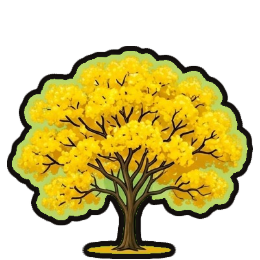
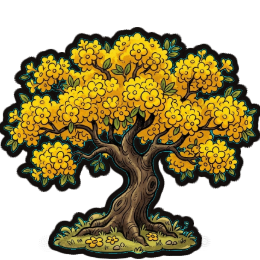
Guayacan y casa nuevos, y el decorado de Medellin sin opacidad
El guayacan que dibujo Daniel reemplaza al que salia de la hoja de
adornos, y sale ademas DETRAS, de decorado, junto con la chiva y una casa
de pueblo nueva con su bandera. Cada uno con su paso y su desfase, para
que no salgan a la vez ni en el mismo orden.

La chiva baja al 75% (285 y 225) y el gato sube al 110% (136). El plano de
detras pasa a ir opaco: como no tapa a nadie, la opacidad solo lo dejaba
desvaido contra la ilustracion de la ciudad.

Y una del recorte: quitaba el fondo entrando desde los bordes, asi que las
bolsas encerradas dentro del dibujo (entre las hojas de las palmeras,
detras de la baranda del balcon, bajo el alero del porche) se salvaban y
quedaban de turquesa en mitad de la casa. Se limpian barriendo la lamina
por color, pero solo donde se puede pedir: en la hoja de adornos las hojas
de las palmeras son del mismo verde que el fondo y se las comeria.

diff --git a/src/config/ciudades.js b/src/config/ciudades.js
@@ -53,19 +53,26 @@ export const CIUDADES = {
     // la ciudad de la hinchada verde, los frijoles y los guayacanes en flor
     frente: [
       { textura: TEXTURAS.frenteGuayacan, desde: 'abajo', alto: 148, cada: 940, desfase: 300 },
-      // La chiva va DETRAS del nino y del suelo, y bien grande: es el decorado
-      // de la ciudad, no un adorno que le pase por delante. Va dos veces, a
-      // distinto tamano y a distinto paso, para que se lea como dos chivas a
-      // distinta distancia y no como la misma calcada.
-      { textura: TEXTURAS.frenteChiva, desde: 'abajo', alto: 380, cada: 1240, desfase: 760, detras: true },
       { textura: TEXTURAS.frentePalmeraAlta, desde: 'abajo', alto: 210, cada: 1060, desfase: 1180 },
-      { textura: TEXTURAS.frenteChiva, desde: 'abajo', alto: 300, cada: 1320, desfase: 1600, detras: true },
       { textura: TEXTURAS.frenteFrijoles, desde: 'abajo', alto: 96, cada: 1140, desfase: 480 },
       // El gato de la hinchada, llorando porque Martain le mocho la cola. Va
       // con su bocadillo, que es el chiste, asi que sigue siendo el mas alto de
-      // los adornos de suelo; aun asi se le bajo al 65% para que no tape a las
-      // baneras cuando se cruzan.
-      { textura: TEXTURAS.frenteGato, desde: 'abajo', alto: 124, cada: 1460, desfase: 900 },
+      // los adornos de suelo.
+      { textura: TEXTURAS.frenteGato, desde: 'abajo', alto: 136, cada: 1460, desfase: 900 },
+
+      // --- el decorado de la ciudad, DETRAS del nino y del suelo ------------
+      //
+      // Estos no cruzan por delante de nadie: son Medellin de fondo. La chiva
+      // va dos veces, a distinto tamano, para que se lea como dos chivas a
+      // distinta distancia y no como la misma calcada; el guayacan sale aqui
+      // ademas de delante, y la casa se reparte entre medias. Cada uno con su
+      // paso y su desfase, para que no salgan a la vez ni en el mismo orden.
+      //
+      // Y sin opacidad: no tapan nada, asi que no hay nada que despejar.
+      { textura: TEXTURAS.frenteChiva, desde: 'abajo', alto: 285, cada: 1240, desfase: 760, detras: true },
+      { textura: TEXTURAS.frenteChiva, desde: 'abajo', alto: 225, cada: 1320, desfase: 1600, detras: true },
+      { textura: TEXTURAS.frenteGuayacan, desde: 'abajo', alto: 246, cada: 1180, desfase: 340, detras: true },
+      { textura: TEXTURAS.frenteCasa, desde: 'abajo', alto: 356, cada: 1460, desfase: 1120, detras: true },
     ],
     pavimento: { patron: 'baldosa', claro: 0xcfc4b0, medio: 0xb5a893, oscuro: 0x8d8070 },
     subsuelo: { patron: 'adoquin', claro: 0xa85f45, medio: 0x8e4d37, oscuro: 0x6b3828 },

diff --git a/src/escenas/EscenaCarga.js b/src/escenas/EscenaCarga.js
@@ -31,6 +31,7 @@ import frenteFrijoles from '../assets/frente/frijoles.png';
 import frentePalmeraAlta from '../assets/frente/palmera-alta.png';
 import frenteGuayacan from '../assets/frente/guayacan.png';
 import frenteGato from '../assets/frente/gato.png';
+import frenteCasa from '../assets/frente/casa.png';
 import portadaMenu from '../assets/portada-menu.jpg';
 import fondoSpaceCoast from '../assets/fondos/space-coast.jpg';
 import fondoMedellin from '../assets/fondos/medellin.jpg';
@@ -110,6 +111,7 @@ export class EscenaCarga extends Phaser.Scene {
     this.load.image(TEXTURAS.frentePalmeraAlta, frentePalmeraAlta);
     this.load.image(TEXTURAS.frenteGuayacan, frenteGuayacan);
     this.load.image(TEXTURAS.frenteGato, frenteGato);
+    this.load.image(TEXTURAS.frenteCasa, frenteCasa);
     this.load.image(TEXTURAS.portadaMenu, portadaMenu);
     Object.entries(FONDOS_CIUDAD).forEach(([ciudad, url]) => {
       this.load.image(TEXTURAS.fondoDe(ciudad), url);

diff --git a/src/sistemas/planos.js b/src/sistemas/planos.js
@@ -139,7 +139,10 @@ export function montarPrimerPlano(escena, ancho, alto, anchoMundo, adornos, plan
         .image(donde, arriba ? -6 : alto + 6, adorno.textura)
         .setOrigin(0.5, arriba ? 0 : 1)
         .setScale(escala)
-        .setAlpha(adorno.alpha ?? PLANOS.frente.alpha)
+        // Los de delante van un poco translucidos, que cruzan por encima del
+        // nino; los de DETRAS no: no tapan nada, y bajarles la opacidad solo
+        // los dejaba desvaidos contra la ilustracion de la ciudad.
+        .setAlpha(adorno.alpha ?? (adorno.detras ? PLANOS.detras.alpha : PLANOS.frente.alpha))
         .setDepth(adorno.detras ? PLANOS.detras.profundidad : PLANOS.frente.profundidad);
       // Un adorno puede ir DETRAS del mundo en vez de delante: pasa por detras
       // del nino y del suelo, y se mueve mas despacio que la camara porque

diff --git a/src/config/estilo.js b/src/config/estilo.js
@@ -238,6 +238,7 @@ export const TEXTURAS = {
   frenteFrijoles: 'tex-frente-frijoles',
   frentePalmeraAlta: 'tex-frente-palmera-alta',
   frenteGuayacan: 'tex-frente-guayacan',
+  frenteCasa: 'tex-frente-casa',
   frenteGato: 'tex-frente-gato',
 
   frenteRama: 'tex-frente-rama',
@@ -290,6 +291,9 @@ export const PLANOS = {
   // DETRAS DEL MUNDO: decorado grande que pasa por detras del nino y del
   // suelo. Mas lejos que el mundo, mas cerca que la ilustracion de fondo.
   detras: {
+    // Sin transparencia: va por DETRAS del nino y del suelo, asi que no hay
+    // nada que despejar. Bajarle la opacidad solo lo dejaba desvaido.
+    alpha: 1,
     velocidad: 0.72,
     profundidad: -20,
   },

diff --git a/CLAUDE.md b/CLAUDE.md
@@ -598,10 +598,10 @@ mano, en `Planos`: `setScrollFactor` no se lleva con el zoom de la camara.
 - **El plano de delante es de cada ciudad.** Su lista va en `frente`, dentro de
   `src/config/ciudades.js`. Space Coast tiene palmeras, un vecino de otro
   planeta dandose un bano y un astronauta flotando arriba; Medellin, guayacanes
-  en flor, la chiva de la hinchada camino del estadio, una palmera alta, una
-  olla de frijoles y el
-  gato de la hinchada, que va llorando porque Martain le mocho la cola. Las tres
-  que faltan siguen con los adornos provisionales (ramas, farol, matorral), que
+  en flor, una palmera alta, una olla de frijoles y el gato de la hinchada, que
+  va llorando porque Martain le mocho la cola; y DETRAS, de decorado, la chiva
+  camino del estadio, mas guayacanes y una casa de pueblo con su bandera. Las
+  tres que faltan siguen con los adornos provisionales (ramas, farol, matorral), que
   es lo que se usa cuando una ciudad no trae los suyos.
 - **En la arena del jefe no se planta nada por delante.** Al final del tablero
   la camara ya no avanza, asi que un adorno que caiga ahi se queda clavado en
@@ -615,8 +615,11 @@ mano, en `Planos`: `setScrollFactor` no se lleva con el zoom de la camara.
   es solo lo que asoma por encima del suelo, y con la altura "real" taparia al
   nino entero y no se podria jugar.
 - Un adorno puede llevar **`detras: true`** y entonces pasa por DETRAS del nino
-  y del suelo, mas despacio, como decorado de la ciudad. Es lo que hacen las
-  chivas de Medellin, que van bien grandes.
+  y del suelo, mas despacio, como decorado de la ciudad. Es lo que hacen en
+  Medellin la chiva, los guayacanes grandes y la casa de pueblo.
+- Los de **delante** van un poco translucidos, que cruzan por encima del nino;
+  los de **detras, no**: no tapan a nadie, y bajarles la opacidad solo los
+  dejaba desvaidos contra la ilustracion de la ciudad.
 
 ## 10. Arte y licencias
 
@@ -1091,3 +1094,16 @@ baja.
   que se dibujan por codigo miden **172 px**, media pantalla. Al Salvavidas hubo
   que separarle bien el sitio de la torre del sitio del suelo: con 26 px de
   diferencia, "esta arriba y no le llego" y "ha bajado, dale" se veian igual.
+- **2026-09-24** — Medellin estrena **guayacan y casa de pueblo** dibujados por
+  Daniel. El guayacan reemplaza al que salia de la hoja de adornos y sale
+  ademas **detras**, de decorado, junto con la chiva y la casa. La chiva baja al
+  75% y el gato sube al 110%. El plano de **detras pasa a ir opaco**: no tapa a
+  nadie, asi que la opacidad solo lo dejaba desvaido.
+- **2026-09-24** — El recorte quita el fondo **entrando desde los bordes**, asi
+  que las bolsas de fondo que quedan encerradas dentro del dibujo (entre las
+  hojas de una palmera, detras de la baranda de un balcon, bajo el alero de un
+  porche) se salvaban y quedaban de turquesa en mitad del recorte. Se limpian
+  barriendo la lamina entera por color, pero eso **no se puede hacer siempre**:
+  en la hoja de adornos las hojas de las palmeras son del mismo verde que el
+  fondo y se las comeria. Por eso va por sabana (`limpiarBolsas`), y solo lo
+  piden los dibujos que vienen sobre un turquesa que no aparece en el dibujo.
